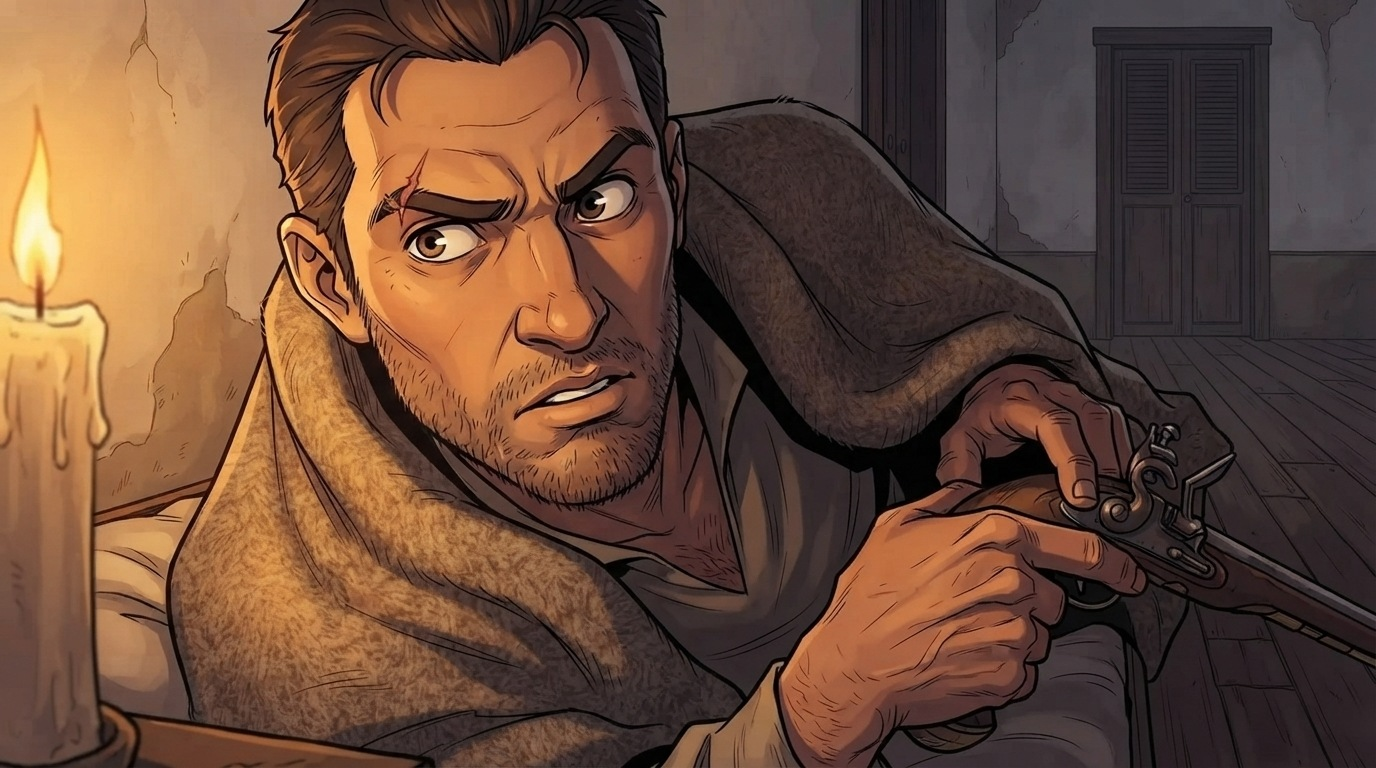
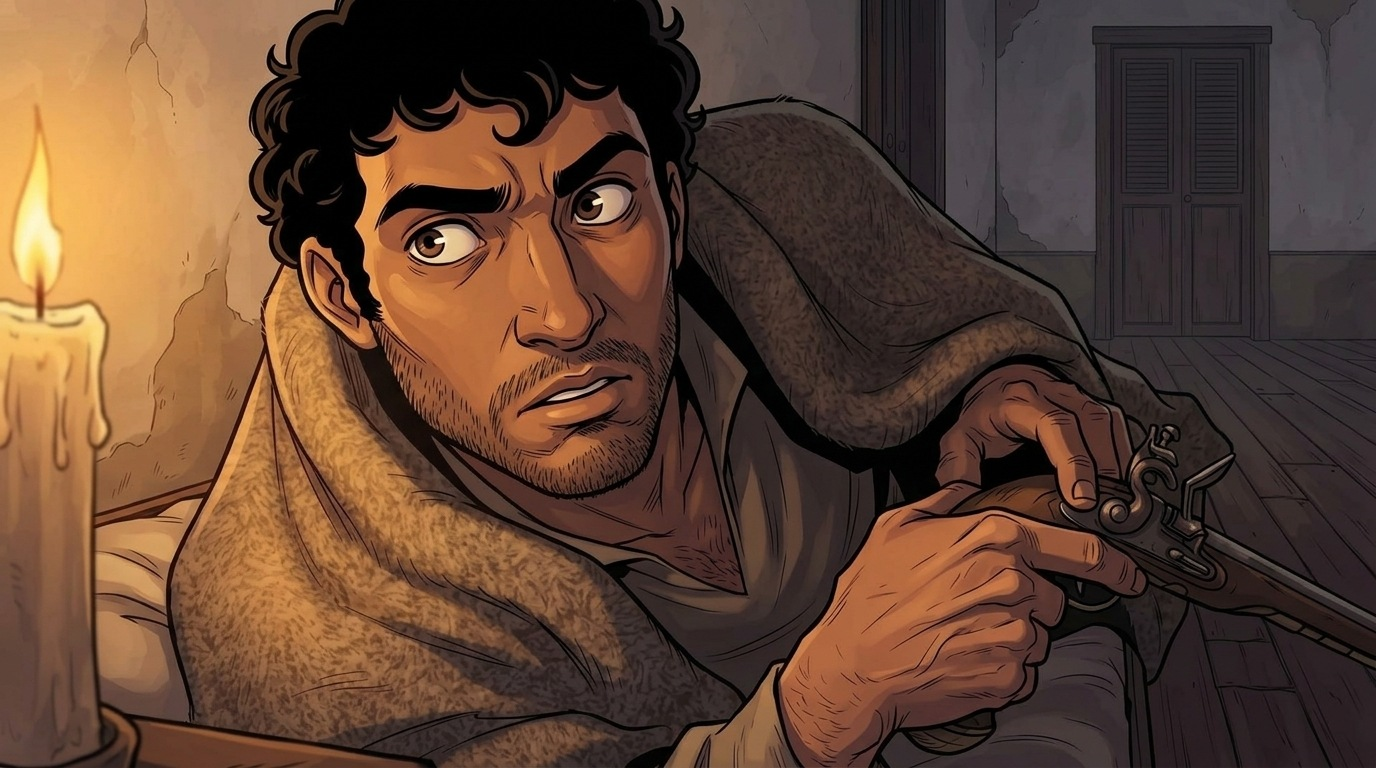
EP04 Bolívar: imágenes 55, 56, 61–65 y 47b; correcciones de 02, 10, 22 y 36
Claude-Session: https://claude.ai/code/session_01H5FxRVEwq3sY53RUAs5cGY

diff --git a/guiones/ep04-bolivar/guion_produccion.md b/guiones/ep04-bolivar/guion_produccion.md
@@ -189,11 +189,7 @@ Los tiempos son aproximados; se ajustan con Whisper. Cada imagen se usa 1–2 ve
 M1. TÚ protegiendo a Bolívar con el brazo extendido, con la cara intensa mirando a cámara. Detrás, una hamaca atravesada por un cuchillo. Fondo oscuro con luz roja y mucho contraste. Dejar espacio arriba a la derecha para el texto «5 VECES».
 
 ## Estado de las imágenes (26 nov 2026)
-- **Hechas (57 escenas + F1 + M1):** 01–47, 49, 50, 52–54, 57–60. Están en `projects/ep04-bolivar/assets/img/`. La 18 sale del reel del sombrero (sepia). A la 17 se le corrigió la fecha de la lápida (1803).
-- **Faltan (8):** 51 (reel 4) → 55, 56 (reel 5) → 48 (Quito) → 61–65 (final).
-- **Corregir al final (si sobran generaciones):**
-  - 36: Bolívar sale herido por una bala en el hombro, pero escapó ileso. Repetir: «huye ileso, las balas pasan rozándolo sin tocarlo».
-  - 44 y 49: el guardaespaldas tiene la piel azul (en 49 es la figura de la puerta). Si no se repiten, se corrige el color en el montaje.
-  - 02 y 10: el guardaespaldas adulto no se parece a F1 (debe ser moreno y de pelo rizado).
-  - Opcional: 22 (Pío se parece al guardaespaldas; se puede resolver en el montaje con penumbra).
-- **Para cada cuenta nueva de Gemini:** adjuntar F1, 14 y 06 como referencia en el primer mensaje.
+- **Hechas (63 escenas + F1 + M1):** 01–47, 49, 50, 52–65. Están en `projects/ep04-bolivar/assets/img/`. La 18 sale del reel del sombrero (sepia). A la 17 se le corrigió la fecha de la lápida (1803). 47b es una variante de la 47.
+- **Corregidas:** 02, 10, 22 y 36 (las versiones viejas están en `assets/img/descartes/`).
+- **Faltan (2):** 51 (Mosquera visita a Bolívar en la huerta) y 48 (Manuela a caballo). Si no llegan: la 51 se cubre con la 52 en plano abierto y la 48 con la 46 o la 47b.
+- **Arreglar en el montaje:** piel azul del guardaespaldas en la 44 (el jinete) y la 49 (la figura de la puerta).
